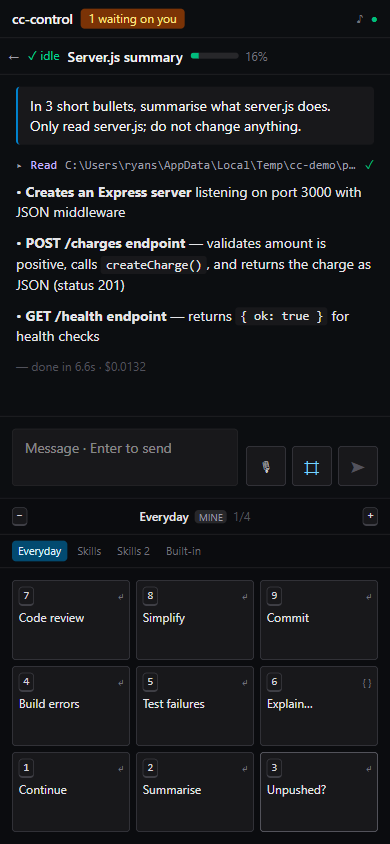
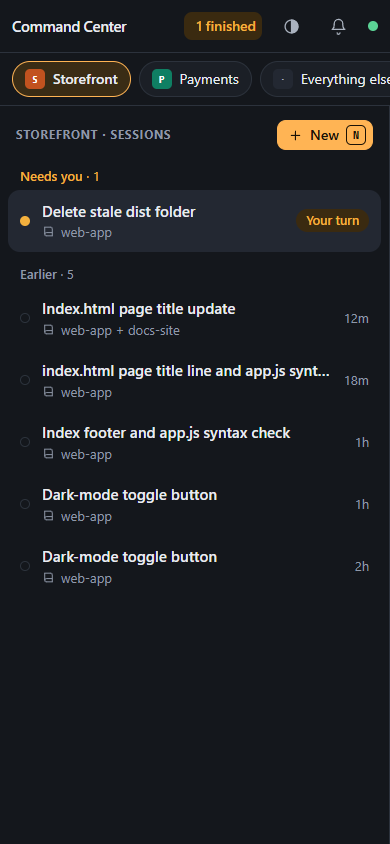
fix: address independent review of the cockpit redesign; README for the new UI
- Group cycling wrote a stale key format, silently disabling workflow keys.
- Risk rating: lone &, command substitution, shell -c wrappers, env,
  find -execdir and N> redirects no longer read as safe; more careful rules.
- Keys and legend skip home columns hidden at the window width.
- Restarted sessions: the old query stops writing; transcripts are copied.
- Workspace repos must be real folders; repo packs never create the repo.
- Top-row digits run workflows on the pad; smaller fixes to the library,
  source folders and the workspace editor.

diff --git a/web/plain.ts b/web/plain.ts
@@ -42,11 +42,11 @@ function mcpParts(name: string): { server: string; tool: string } | null {
 
 // Matched against the start of each command in a line (see parts()), so `grep format` is not a disk format.
 const CAREFUL_RULES: [RegExp, string][] = [
-  [/^(rm|rmdir|del|erase|rd|unlink|remove-item|ri)\b|^find\b.*\s-delete\b|shutil\.rmtree/i, 'deletes files'],
-  [/^git\s+(push|reset\s+--hard|clean\b|checkout\s+--\s|rebase|filter-branch|stash\s+(drop|clear))/i, 'can lose or publish work'],
+  [/^(rm|rmdir|del|erase|rd|unlink|remove-item|ri|rimraf|shred)\b|^(npx|pnpm\s+dlx|bunx)\s+(rimraf|del-cli)\b|^find\b.*\s-(delete|exec\w*|ok\w*)\b.*\brm\b|^xargs\b.*\brm\b|shutil\.rmtree/i, 'deletes files'],
+  [/^git\s+(push|reset\b.*--hard|clean\b|checkout\s+(--\s|\.)|restore\b|rebase|filter-branch|stash\s+(drop|clear))/i, 'can lose or publish work'],
   [/^git\s+branch\s+(-D|--delete\s+--force)\b/, 'can lose or publish work'],
   [/^(npm|pnpm|yarn|bun|pip3?|poetry|gem|cargo|go|brew|choco|winget|scoop|apt(-get)?|dnf|yum)\s+(install|i|add|remove|uninstall|rm|update|upgrade|get)\b/i, 'installs or removes software'],
-  [/^(curl|wget|iwr|irm|invoke-webrequest|invoke-restmethod)\b/i, 'talks to the internet'],
+  [/^(curl|wget|iwr|irm|invoke-webrequest|invoke-restmethod|ssh|scp|sftp|rsync|ftp|nc|ncat)\b/i, 'talks to the internet'],
   [/^(sudo|runas)\b|^start-process\b.*-verb\s+runas/i, 'runs as administrator'],
   [/^(kill|pkill|killall|taskkill|stop-process)\b/i, 'stops programs'],
   [/^(mkfs|format|diskpart|dd)\b/i, 'touches whole disks'],
@@ -59,7 +59,7 @@ const CAREFUL_RULES: [RegExp, string][] = [
 // First words of commands that only look at things.
 const READ_ONLY = new Set([
   'ls', 'dir', 'cat', 'type', 'head', 'tail', 'less', 'more', 'pwd', 'cd', 'echo', 'which', 'where', 'whoami', 'date',
-  'grep', 'rg', 'findstr', 'find', 'wc', 'tree', 'stat', 'file', 'du', 'df', 'env', 'printenv', 'sort', 'uniq', 'diff',
+  'grep', 'rg', 'findstr', 'find', 'wc', 'tree', 'stat', 'file', 'du', 'df', 'printenv', 'sort', 'uniq', 'diff',
   'get-childitem', 'get-content', 'get-location', 'get-item', 'select-string', 'test-path', 'get-command',
 ]);
 const READ_ONLY_GIT = /^git\s+(status|log|diff|show|branch(\s+(-a|-r|--list|-v+))*\s*$|remote(\s+-v)?\s*$|rev-parse|ls-files|blame|describe|tag\s*$|config\s+--get)/i;
@@ -67,21 +67,40 @@ const READ_ONLY_OTHER = /^(node|python3?|npx\s+tsc)\s+(--check|-c\s+['"]?import|
 
 /** Split a shell line into its commands, so `ls && rm -rf x` is judged by its riskiest part. */
 function parts(command: string): string[] {
-  return command.split(/&&|\|\||;|\|(?!\|)|\n/)
-    // "(cd x && …", "FOO=1 cmd": judge the command itself.
-    .map((p) => p.trim().replace(/^[({]\s*/, '').replace(/^(\w+=\S*\s+)+/, ''))
+  // A lone & chains commands too, but not inside redirections like 2>&1 or &>.
+  return command.split(/&&|\|\||;|\||(?<![>&<])&(?![>&])|\n/)
+    // "(cd x && …", "FOO=1 cmd", "git -C dir -c k=v push": judge the command itself.
+    .map((p) => p.trim().replace(/^[({]\s*/, '').replace(/^(\w+=\S*\s+)+/, '')
+      .replace(/^git\s+((-C|-c)\s+\S+\s+)+/i, 'git '))
     .filter(Boolean);
 }
 
+/** Commands run inside another: $(…), backticks, <(…), and `bash -c "…"` / `cmd /c …` / `powershell -Command …`. */
+function nested(command: string): string[] {
+  const out: string[] = [];
+  for (const m of command.matchAll(/\$\(([^)]*)\)|`([^`]*)`|<\(([^)]*)\)/g)) out.push(m[1] ?? m[2] ?? m[3] ?? '');
+  for (const m of command.matchAll(/\b(?:bash|sh|zsh|pwsh|powershell)(?:\.exe)?\s+(?:-\w+\s+)*-(?:c|Command)\s+(["']?)(.+?)\1\s*$/gi)) out.push(m[2]);
+  for (const m of command.matchAll(/\bcmd(?:\.exe)?\s+\/[ck]\s+(.+)$/gi)) out.push(m[1]);
+  return out;
+}
+
 export function classifyCommand(command: string): { risk: Risk; reason: string } {
+  for (const inner of nested(command)) {
+    const r = classifyCommand(inner);
+    if (r.risk === 'careful') return r;
+  }
   for (const p of parts(command)) {
     for (const [re, reason] of CAREFUL_RULES) if (re.test(p)) return { risk: 'careful', reason };
   }
-  // Writing into a file (but not into /dev/null or 2>&1) changes things.
-  if (/(^|[^0-9&])>{1,2}\s*(?!\/dev\/null|&|\$null|nul\b)\S/i.test(command)) return { risk: 'changes', reason: 'writes to a file' };
+  // Writing into a file (but not into /dev/null, nul or another stream like 2>&1) changes things.
+  if (/\d*>{1,2}\s*(?!\/dev\/null|&|\$null|nul\b)\S/i.test(command)) return { risk: 'changes', reason: 'writes to a file' };
+  // Anything that runs a command inside another is not "only looking".
+  if (nested(command).length) return { risk: 'changes', reason: 'runs code in your project' };
   const safe = parts(command).every((p) => {
     const first = p.split(/\s+/)[0].toLowerCase();
-    if (first === 'find' && /\s-(exec|delete)\b/.test(p)) return false;
+    if (first === 'find' && /\s-(exec\w*|ok\w*|delete|fprint\w*|fls)\b/.test(p)) return false;
+    if (first === 'sort' && /\s(-o\b|--output)/.test(p)) return false;
+    if (/\s--output\b/.test(p)) return false;
     return READ_ONLY.has(first) || READ_ONLY_GIT.test(p) || READ_ONLY_OTHER.test(p);
   });
   return safe ? { risk: 'safe', reason: 'only looks' } : { risk: 'changes', reason: 'runs code in your project' };

diff --git a/server/index.ts b/server/index.ts
@@ -2,11 +2,11 @@ import { serve } from '@hono/node-server';
 import { serveStatic } from '@hono/node-server/serve-static';
 import { Hono, type MiddlewareHandler } from 'hono';
 import type { IncomingMessage } from 'node:http';
-import { existsSync } from 'node:fs';
+import { existsSync, statSync } from 'node:fs';
 import { isAbsolute } from 'node:path';
 import { fileURLToPath } from 'node:url';
 import { WebSocketServer, type WebSocket } from 'ws';
-import type { ClientMsg, ServerMsg, Settings, Workspace } from '../shared/protocol.ts';
+import type { ClientMsg, RepoInfo, ServerMsg, Settings, Workspace } from '../shared/protocol.ts';
 import { addPath, removePath, samePath, suggestSources, WORKSPACE_COLORS } from '../shared/workspaces.ts';
 import { CommandService } from './commands.ts';
 import { PermissionBroker } from './permission-broker.ts';
@@ -86,10 +86,23 @@ function cleanWorkspace(raw: unknown): Workspace {
   return { id, name, color, repos, home };
 }
 
+function isDir(p: string): boolean {
+  try { return statSync(p).isDirectory(); } catch { return false; }
+}
+
+/** New repo paths must be real folders; ones already saved may be offline (an unplugged drive) and stay. */
+function checkNewRepos(w: Workspace, before: string[]): void {
+  for (const r of w.repos) {
+    if (!before.some((b) => samePath(b, r)) && !isDir(r)) throw new Error(`Not a folder: ${r}`);
+  }
+}
+
 function updateWorkspace(id: string, change: (w: Workspace) => Workspace): void {
   const w = store.loadWorkspaces().find((x) => x.id === id);
   if (!w) throw new Error('That workspace no longer exists.');
-  store.saveWorkspace(cleanWorkspace(change(w)));
+  const next = cleanWorkspace(change(w));
+  checkNewRepos(next, w.repos);
+  store.saveWorkspace(next);
   workspacesChanged();
 }
 
@@ -98,10 +111,14 @@ function workspacesChanged(): void {
   broadcast({ type: 'commands.changed' }); // workspace workflows follow the workspace's repos
 }
 
-function library(): ServerMsg {
+/** The last scan; scanning stats every repo, so it runs on request, not on every connection. */
+let libraryRepos: RepoInfo[] | null = null;
+
+function library(rescan = false): ServerMsg {
   const sources = store.librarySources();
+  if (rescan || !libraryRepos) libraryRepos = scanSources(sources);
   const suggested = suggestSources(manager.history.repos()).filter((p) => !sources.some((s) => samePath(s, p)));
-  return { type: 'library', sources, repos: scanSources(sources), suggested };
+  return { type: 'library', sources, repos: libraryRepos, suggested };
 }
 
 /** Repo commands may only be written into folders cc-control already works with. */
@@ -178,7 +195,9 @@ async function handle(ws: WebSocket, msg: ClientMsg): Promise<void> {
       return;
     case 'workspace.save': {
       const w = cleanWorkspace(msg.workspace);
-      const isNew = !store.loadWorkspaces().some((x) => x.id === w.id);
+      const old = store.loadWorkspaces().find((x) => x.id === w.id);
+      checkNewRepos(w, old?.repos ?? []);
+      const isNew = !old;
       store.saveWorkspace(w);
       if (isNew) commands.seedWorkspace(w, msg.template);
       workspacesChanged();
@@ -203,13 +222,14 @@ async function handle(ws: WebSocket, msg: ClientMsg): Promise<void> {
       return;
     case 'library.setSources': {
       const sources = cleanSources(msg.sources);
-      if (Array.isArray(msg.sources) && msg.sources.length && !sources.length) throw new Error('That folder does not exist.');
+      const asked = Array.isArray(msg.sources) ? msg.sources.filter((x) => typeof x === 'string' && x.trim()).length : 0;
+      if (sources.length < asked) throw new Error('That folder does not exist (or is not a full path, like C:\\repos).');
       store.setLibrarySources(sources);
-      broadcast(library());
+      broadcast(library(true));
       return;
     }
     case 'library.scan':
-      send(ws, library());
+      send(ws, library(true));
       return;
     case 'workspace.export': {
       const w = store.loadWorkspaces().find((x) => x.id === msg.id);
@@ -218,7 +238,7 @@ async function handle(ws: WebSocket, msg: ClientMsg): Promise<void> {
       return;
     }
     case 'workspace.import': {
-      const r = workspaceFromFile(msg.file, scanSources(store.librarySources()));
+      const r = workspaceFromFile(msg.file, (library(true) as Extract<ServerMsg, { type: 'library' }>).repos);
       const w = cleanWorkspace({ ...r.workspace, id: crypto.randomUUID() });
       store.saveWorkspace(w);
       if (r.workflows.groups.length) store.saveWorkspacePack(w.id, r.workflows);

diff --git a/web/keys.ts b/web/keys.ts
@@ -47,6 +47,7 @@ const FIXED_SECTIONS: { title: string; keys: [string, string][] }[] = [
       ['Tab (message box)', 'Go to the number pad or the approval card without stopping Claude'],
       ['i', 'Back to the message box'],
       ['+', 'Give this session another repo to work in'],
+      ['Ctrl+K  “Stop working in …”', 'Take an added repo back out (or its × in the bar above the conversation)'],
       ['PgUp PgDn  Home End', 'Scroll the conversation'],
       ['T', 'Show or hide every step’s details'],
       ['R / X', 'Rename / end the session'],
@@ -232,10 +233,18 @@ function addRepoToWorkspace(): void {
 
 // ---- Home -------------------------------------------------------------------------------
 
+/** Columns shown at this window width (the preview needs 1024px, workspaces and the library 768px). */
+export function shownCols(): HomeCol[] {
+  const wide = (px: number) => typeof matchMedia === 'undefined' || matchMedia(`(min-width: ${px}px)`).matches;
+  return HOME_COLS.filter((c) => (c === 'preview' ? wide(1024) : c === 'workspaces' ? wide(768) : true));
+}
+const libraryShown = () => typeof matchMedia === 'undefined' || matchMedia('(min-width: 768px)').matches;
+
 function moveCol(delta: number): void {
   const col = get().homeCol;
-  const i = HOME_COLS.indexOf(col === 'library' ? 'sessions' : col);
-  set({ homeCol: HOME_COLS[Math.min(HOME_COLS.length - 1, Math.max(0, i + delta))] });
+  const cols = shownCols();
+  const i = Math.max(0, cols.indexOf(col === 'library' ? 'sessions' : col));
+  set({ homeCol: cols[Math.min(cols.length - 1, Math.max(0, i + delta))] });
 }
 
 function libraryKeys(e: KeyboardEvent): boolean {
@@ -244,7 +253,7 @@ function libraryKeys(e: KeyboardEvent): boolean {
   const repo = repos[Math.min(s.libIndex, repos.length - 1)];
   switch (e.key) {
     case 'ArrowLeft': set({ libIndex: Math.max(0, s.libIndex - 1) }); return true;
-    case 'ArrowRight': set({ libIndex: Math.min(repos.length - 1, s.libIndex + 1) }); return true;
+    case 'ArrowRight': set({ libIndex: Math.max(0, Math.min(repos.length - 1, s.libIndex + 1)) }); return true;
     case 'ArrowUp': case 'Escape': set({ homeCol: 'sessions' }); return true;
     case 'Home': set({ libIndex: 0 }); return true;
     case 'End': set({ libIndex: Math.max(0, repos.length - 1) }); return true;
@@ -278,13 +287,14 @@ function homeKeys(e: KeyboardEvent, typing: boolean): boolean {
     return false;
   }
   if (e.ctrlKey || e.altKey || e.metaKey) return false;
-  if (e.key === 'Tab') { set({ homeCol: s.homeCol === 'library' ? 'sessions' : 'library' }); return true; }
+  if (e.key === 'Tab') { set({ homeCol: s.homeCol === 'library' || !libraryShown() ? 'sessions' : 'library' }); return true; }
   if (s.homeCol === 'library') return libraryKeys(e);
 
   const digit = /^(Digit|Numpad)(\d)$/.exec(e.code);
   if (digit && !e.shiftKey) { scopeByDigit(Number(digit[2])); return true; }
 
-  const col: HomeCol = s.homeCol;
+  // A column hidden at this width (the window shrank) acts as the sessions column.
+  const col: HomeCol = shownCols().includes(s.homeCol) ? s.homeCol : 'sessions';
   switch (e.key) {
     case 'ArrowLeft': moveCol(-1); return true;
     case 'ArrowRight': moveCol(1); return true;
@@ -360,6 +370,9 @@ function boardKeys(e: KeyboardEvent): boolean {
     return true;
   }
   if (e.ctrlKey || e.altKey || e.metaKey) return false;
+  // On the pad nothing is being typed, so the top-row digits run workflows too (laptops without a numpad).
+  const digit = /^Digit([1-9])$/.exec(e.code);
+  if (digit && !e.shiftKey) { set({ boardSlot: Number(digit[1]) }); fireSlot(Number(digit[1])); return true; }
   switch (e.key) {
     case 'Enter': fireSlot(s.boardSlot); return true;
     case '[': cycleGroup(-1); return true;

diff --git a/web/components/Dialogs.tsx b/web/components/Dialogs.tsx
@@ -348,7 +348,7 @@ function WorkspaceDialog({ id }: { id: string | null }) {
               {library.sources.length ? `From ${library.sources.map(repoName).join(', ')} · add a folder` : 'Pick the folder your repos are in'}
             </button>
           </div>
-          {(editSources || (library.sources.length === 0 && !repos.length)) && <div className="mb-3"><SourcePrompt autoFocus={editSources} /></div>}
+          {(editSources || (library.sources.length === 0 && !repos.length)) && <div className="mb-3"><SourcePrompt autoFocus={editSources} onEscape={() => setEditSources(false)} /></div>}
           {(library.sources.length > 0 || repos.length > 0) && (
             <>
               <input value={filter} onChange={(e) => { setFilter(e.target.value); setIndex(0); }} placeholder="Filter repos" className="field mb-2 py-1.5 text-sm" aria-label="Filter repos" />
@@ -517,7 +517,7 @@ function SourcesDialog() {
 }
 
 /** Type or pick a source folder; used by the sources dialog and inline in the workspace editor. */
-function SourcePrompt({ autoFocus = false }: { autoFocus?: boolean }) {
+function SourcePrompt({ autoFocus = false, onEscape = close }: { autoFocus?: boolean; onEscape?: () => void }) {
   const library = useStore((s) => s.library);
   const [path, setPath] = useState('');
   const addSource = (p: string) => {
@@ -532,7 +532,7 @@ function SourcePrompt({ autoFocus = false }: { autoFocus?: boolean }) {
         value={path}
         onChange={(e) => setPath(e.target.value)}
         onKeyDown={(e) => {
-          if (e.key === 'Escape') { e.stopPropagation(); close(); }
+          if (e.key === 'Escape') { e.preventDefault(); e.stopPropagation(); onEscape(); }
           else if (e.key === 'Enter') { e.preventDefault(); e.stopPropagation(); addSource(path); }
           else if (/^[1-3]$/.test(e.key) && !path && library.suggested[Number(e.key) - 1]) { e.preventDefault(); addSource(library.suggested[Number(e.key) - 1]); }
         }}

diff --git a/web/App.tsx b/web/App.tsx
@@ -5,7 +5,7 @@ import { SessionView } from './components/SessionView.tsx';
 import { Icon, Key, KeyHint, WsBadge } from './components/ui.tsx';
 import { armOnFirstGesture, setNotificationHandler } from './attention.ts';
 import { bindingsFor, displayCombo, type ActionId } from './bindings.ts';
-import { cycleTheme, jumpToAttention, onKeyDown, onKeyUp, openSession } from './keys.ts';
+import { cycleTheme, jumpToAttention, onKeyDown, onKeyUp, openSession, shownCols } from './keys.ts';
 import { legendFor } from './legend.ts';
 import { stopVoice } from './voice.ts';
 import { maybeShowWelcome } from './components/Welcome.tsx';
@@ -27,7 +27,8 @@ function Legend() {
   const inWorkspace = useStore((s) => s.scope.kind === 'workspace');
   const modal = useStore((s) => s.modal);
   if (modal) return null;
-  const items = legendFor({ screen, homeCol, zone, pending, busy, drafting, hasSelection: Boolean(focusId), inWorkspace, bindings });
+  const col = shownCols().includes(homeCol) || homeCol === 'library' ? homeCol : 'sessions';
+  const items = legendFor({ screen, homeCol: col, zone, pending, busy, drafting, hasSelection: Boolean(focusId), inWorkspace, bindings, previewShown: shownCols().includes('preview') });
   const k = (id: ActionId) => displayCombo(bindingsFor(id, bindings)[0] ?? '');
   return (
     <footer className="hidden items-center gap-x-6 gap-y-2 border-t border-line bg-col px-4 py-2.5 text-[13.5px] text-sub md:flex md:flex-wrap" aria-label="Keys you can press now">

diff --git a/server/session-manager.ts b/server/session-manager.ts
@@ -206,7 +206,7 @@ export class SessionManager {
     l.input.close();
     l.q.close();
     const began = l.items.some((i) => i.kind === 'user');
-    const next = this.start({ id: l.id, cwd: l.cwd, title: l.title, items: l.items, options: began ? { resume: l.id } : { sessionId: l.id } });
+    const next = this.start({ id: l.id, cwd: l.cwd, title: l.title, items: [...l.items], options: began ? { resume: l.id } : { sessionId: l.id } });
     next.ctxPct = l.ctxPct;
     const notice: TranscriptItem = { kind: 'notice', uuid: crypto.randomUUID(), text: note };
     next.items.push(notice);
@@ -308,7 +308,10 @@ export class SessionManager {
 
   private async pump(l: LiveSession): Promise<void> {
     try {
-      for await (const msg of l.q) this.handle(l, msg);
+      for await (const msg of l.q) {
+        if (l.replaced) break; // restarted: the new query owns the session now
+        this.handle(l, msg);
+      }
     } catch (e) {
       if (l.replaced) return;
       const notice: TranscriptItem = { kind: 'notice', uuid: crypto.randomUUID(), text: `Session ended with an error: ${(e as Error).message}` };

diff --git a/web/commands.test.ts b/web/commands.test.ts
@@ -1,0 +1,20 @@
+import assert from 'node:assert/strict';
+import { test } from 'node:test';
+import type { CommandGroup } from '../shared/protocol.ts';
+import { cycleGroup } from './commands.ts';
+import { currentGroup, get, groupKeyOf, set } from './store.ts';
+
+const group = (name: string, scope: CommandGroup['scope'], workspaceId?: string): CommandGroup =>
+  ({ name, scope, workspaceId, commands: [{ slot: 1, label: name, body: name, mode: 'send' }] });
+
+test('cycling groups lands on an exact group, so the number pad can still fire (review finding)', () => {
+  const groups = [group('Storefront', 'workspace', 'w1'), group('Mine', 'global'), group('Skills', 'auto')];
+  set({ openId: 's1', board: { sessionId: 's1', groups }, groupKey: groupKeyOf(groups[0]) });
+  cycleGroup(1);
+  assert.deepEqual([currentGroup(get()).group?.name, currentGroup(get()).exact], ['Mine', true]);
+  cycleGroup(1);
+  cycleGroup(1);
+  assert.deepEqual([currentGroup(get()).group?.name, currentGroup(get()).exact], ['Storefront', true]);
+  cycleGroup(-1);
+  assert.equal(currentGroup(get()).group?.name, 'Skills');
+});

diff --git a/web/legend.ts b/web/legend.ts
@@ -25,6 +25,8 @@ export interface LegendInput {
   /** Home: a real workspace is selected (not "everything else"). */
   inWorkspace: boolean;
   bindings: Bindings;
+  /** The preview column fits on screen (otherwise approvals are answered by opening the session). */
+  previewShown?: boolean;
 }
 
 const k = (b: Bindings, id: ActionId) => displayCombo(bindingsFor(id, b)[0] ?? '');
@@ -65,7 +67,7 @@ export function legendFor(x: LegendInput): LegendItem[] {
           { keys: ['←', '→'], label: 'Columns' },
           { keys: ['↑', '↓'], label: 'Choose' },
           ...(x.hasSelection ? [{ keys: ['Enter'], label: 'Open' }] : []),
-          ...(x.pending ? [{ keys: ['→'], label: 'Answer it here', tone: 'attn' as const }] : []),
+          ...(x.pending ? [x.previewShown === false ? { keys: ['Enter'], label: 'Open to answer', tone: 'attn' as const } : { keys: ['→'], label: 'Answer it here', tone: 'attn' as const }] : []),
           { keys: ['N'], label: 'New session', tone: 'acc' },
           { keys: ['/'], label: 'Filter' },
           { keys: ['Tab'], label: 'Repo library' },

diff --git a/web/plain.test.ts b/web/plain.test.ts
@@ -31,6 +31,17 @@ test('destructive, publishing and system-wide commands are careful, with a reaso
   assert.equal(risk('cat src/remove-item-button.tsx'), 'safe');
 });
 
+test('chains, substitutions and wrappers are judged by what they really run (review findings)', () => {
+  for (const cmd of ['ls & rm -rf x', 'dir & del /q *', 'echo $(rm -rf ~)', 'cat `rm -rf x`', 'ls | xargs rm -rf', 'bash -c "rm -rf x"', 'cmd /c del x',
+    'npx rimraf dist', 'find . -execdir rm {} +', 'git -C x push --force', 'git reset HEAD~1 --hard', 'git restore .', 'git checkout .', 'ssh host ls', 'rsync -a a b']) {
+    assert.equal(risk(cmd), 'careful', cmd);
+  }
+  for (const cmd of ['env rm x', 'echo hi 1>important.txt', 'sort -o f in.txt', 'git diff --output=f', 'find . -fprint out', 'echo $(date)']) {
+    assert.notEqual(risk(cmd), 'safe', cmd);
+  }
+  assert.equal(risk('echo hi 2>&1'), 'safe');
+});
+
 test('tool risk by kind', () => {
   assert.equal(toolRisk('Read').risk, 'safe');
   assert.equal(toolRisk('Edit').risk, 'changes');

diff --git a/server/packs.ts b/server/packs.ts
@@ -1,5 +1,5 @@
 import type { SlashCommand } from '@anthropic-ai/claude-agent-sdk';
-import { mkdirSync, readFileSync, writeFileSync } from 'node:fs';
+import { mkdirSync, readFileSync, statSync, writeFileSync } from 'node:fs';
 import { join } from 'node:path';
 import type { Command, CommandGroup, CommandMode, CommandPack, CommandScope } from '../shared/protocol.ts';
 
@@ -81,6 +81,8 @@ export function readRepoPack(cwd: string): CommandPack | null {
 }
 
 export function writeRepoPack(cwd: string, pack: CommandPack): void {
+  // Only ever inside an existing folder: never create the repo itself.
+  if (!statSync(cwd, { throwIfNoEntry: false })?.isDirectory()) throw new Error(`Not a folder: ${cwd}`);
   mkdirSync(join(cwd, '.cc-control'), { recursive: true });
   writeFileSync(repoPackPath(cwd), `${JSON.stringify(pack, null, 2)}\n`);
 }

diff --git a/web/commands.ts b/web/commands.ts
@@ -1,7 +1,7 @@
 // Firing commands from the board: send, insert into the composer, or fill a {{template}} first.
 
 import type { Command, CommandPack } from '../shared/protocol.ts';
-import { currentGroup, flash, get, set, setDraft } from './store.ts';
+import { currentGroup, flash, get, groupKeyOf, set, setDraft } from './store.ts';
 import { requestExport, requestWorkspaceFile, send } from './ws.ts';
 
 const PLACEHOLDER = /\{\{\s*([\w .-]+?)\s*\}\}/g;
@@ -51,7 +51,7 @@ export function cycleGroup(delta: number): void {
   if (!groups.length) return;
   const { index } = currentGroup(s);
   const g = groups[(index + delta + groups.length) % groups.length];
-  set({ groupKey: `${g.scope}:${g.name}` });
+  set({ groupKey: groupKeyOf(g) });
 }
 
 function download(name: string, data: unknown): void {

diff --git a/web/legend.test.ts b/web/legend.test.ts
@@ -14,6 +14,7 @@ test('home sessions column teaches the column model and new session', () => {
   assert.ok(l.includes('N New session'));
   assert.ok(!l.some((x) => x.includes('Answer')));
   assert.ok(labels({ pending: true }).includes('→ Answer it here'));
+  assert.ok(labels({ pending: true, previewShown: false }).includes('Enter Open to answer'), 'no hidden-column promise');
 });
 
 test('the preview answers approvals; without one it offers open', () => {
